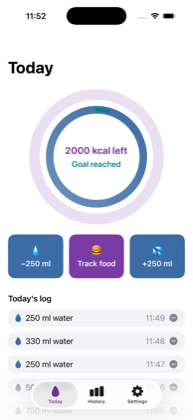
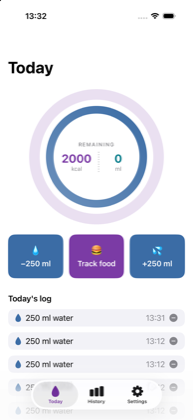
Rework the ring centre into a two-column readout
Replaces the two stacked sentences with a shared REMAINING caption over two
columns — calories left, water left — divided by a dotted rule.

- RingCenterLabel owns the layout; each column keeps its ring's tint, which
  is what identifies which number belongs to which ring
- VolumeUnit.formatValue returns the bare number so the unit can sit on its
  own line; format(millilitres:) is now expressed in terms of it
- Water floors at zero and turns teal once the goal is met, rather than
  showing a negative
- Divider is a stroked path, since Divider cannot be dashed

Supersedes the unshipped "1450/2000 kcal" label experiment.

diff --git a/HydroHomie/Views/RingCenterLabel.swift b/HydroHomie/Views/RingCenterLabel.swift
@@ -1,0 +1,78 @@
+// HydroHomie — a hydration tracker for iOS
+// Copyright (C) 2026 mefiblogger
+// SPDX-License-Identifier: GPL-3.0-or-later
+
+import SwiftUI
+
+/// The readout inside the rings: one "REMAINING" caption over two columns —
+/// calories on the left, water on the right — split by a dotted rule. Each column
+/// is tinted to match its ring, which is what tells you which number belongs to which.
+struct RingCenterLabel: View {
+    var calorieRemaining: Double
+    var waterRemaining: Double
+    var waterUnit: VolumeUnit
+
+    var body: some View {
+        VStack(spacing: 8) {
+            Text("REMAINING")
+                .font(.caption2.weight(.semibold))
+                .tracking(1.4)
+                .foregroundStyle(.secondary)
+
+            HStack(spacing: 14) {
+                column(
+                    value: "\(Int(calorieRemaining.rounded()))",
+                    unit: "kcal",
+                    tint: calorieRemaining < 0 ? .over : .accentColor
+                )
+
+                VerticalRule()
+                    .stroke(.secondary, style: StrokeStyle(lineWidth: 1, dash: [2, 3]))
+                    .frame(width: 1, height: 42)
+
+                column(
+                    // Past the goal there is nothing left to drink, so this floors at
+                    // zero rather than showing a negative.
+                    value: waterUnit.formatValue(millilitres: max(waterRemaining, 0)),
+                    unit: waterUnit.shortName,
+                    tint: waterRemaining > 0 ? .water : .goal
+                )
+            }
+        }
+    }
+
+    private func column(value: String, unit: String, tint: Color) -> some View {
+        VStack(spacing: 0) {
+            Text(value)
+                .font(.system(size: 24, weight: .bold, design: .rounded))
+                .foregroundStyle(tint)
+                .contentTransition(.numericText())
+            Text(unit)
+                .font(.caption)
+                .foregroundStyle(.secondary)
+        }
+        .frame(minWidth: 54)
+        .lineLimit(1)
+        .minimumScaleFactor(0.5)
+    }
+}
+
+/// A plain vertical line, so it can be stroked with a dash pattern — `Divider`
+/// cannot be dotted.
+private struct VerticalRule: Shape {
+    func path(in rect: CGRect) -> Path {
+        var path = Path()
+        path.move(to: CGPoint(x: rect.midX, y: rect.minY))
+        path.addLine(to: CGPoint(x: rect.midX, y: rect.maxY))
+        return path
+    }
+}
+
+#Preview {
+    VStack(spacing: 40) {
+        RingCenterLabel(calorieRemaining: 2000, waterRemaining: 250, waterUnit: .millilitres)
+        RingCenterLabel(calorieRemaining: -320, waterRemaining: 0, waterUnit: .millilitres)
+        RingCenterLabel(calorieRemaining: 1450, waterRemaining: 740, waterUnit: .fluidOunces)
+    }
+    .padding()
+}

diff --git a/HydroHomie/Views/TodayView.swift b/HydroHomie/Views/TodayView.swift
@@ -78,34 +78,15 @@ struct TodayView: View {
                 calorieProgress: HydrationStore.progress(consumed: calorieTotal, goal: calorieGoal),
                 waterProgress: HydrationStore.progress(consumed: waterTotal, goal: waterGoal)
             )
-            VStack(spacing: 6) {
-                Text(calorieLabel)
-                    .font(.system(size: 30, weight: .bold, design: .rounded))
-                    .foregroundStyle(calorieRemaining < 0 ? Color.over : Color.accentColor)
-                    .contentTransition(.numericText())
-                Text(waterLabel)
-                    .font(.system(size: 17, weight: .semibold, design: .rounded))
-                    .foregroundStyle(waterRemaining > 0 ? Color.water : Color.goal)
-                    .contentTransition(.numericText())
-            }
-            .lineLimit(1)
-            .minimumScaleFactor(0.6)
-            .padding(.horizontal, 64)
+            RingCenterLabel(
+                calorieRemaining: calorieRemaining,
+                waterRemaining: waterRemaining,
+                waterUnit: unit
+            )
+            .padding(.horizontal, 54)
         }
         .frame(width: 260, height: 260)
         .padding(.top, 12)
-    }
-
-    private var calorieLabel: String {
-        calorieRemaining >= 0
-            ? "\(Int(calorieRemaining.rounded())) kcal left"
-            : "\(Int((-calorieRemaining).rounded())) kcal over"
-    }
-
-    private var waterLabel: String {
-        waterRemaining > 0
-            ? "\(unit.format(millilitres: waterRemaining)) left"
-            : "Goal reached"
     }
 
     // MARK: - Log

diff --git a/Shared/Models/VolumeUnit.swift b/Shared/Models/VolumeUnit.swift
@@ -43,15 +43,21 @@ enum VolumeUnit: String, Codable, CaseIterable, Identifiable, Sendable {
         }
     }
 
-    /// Formats a millilitre amount in this unit, e.g. `750 ml` or `25.4 fl oz`.
-    func format(millilitres ml: Double) -> String {
+    /// Just the number in this unit, e.g. `750` or `25.4` — for layouts that place
+    /// the unit separately.
+    func formatValue(millilitres ml: Double) -> String {
         let value = fromMillilitres(ml)
         switch self {
         case .millilitres:
-            return "\(Int(value.rounded())) \(shortName)"
+            return "\(Int(value.rounded()))"
         case .fluidOunces:
-            return String(format: "%.1f %@", value, shortName)
+            return String(format: "%.1f", value)
         }
+    }
+
+    /// Formats a millilitre amount in this unit, e.g. `750 ml` or `25.4 fl oz`.
+    func format(millilitres ml: Double) -> String {
+        "\(formatValue(millilitres: ml)) \(shortName)"
     }
 
     /// The quick-add amounts offered on the Today screen, in millilitres.
